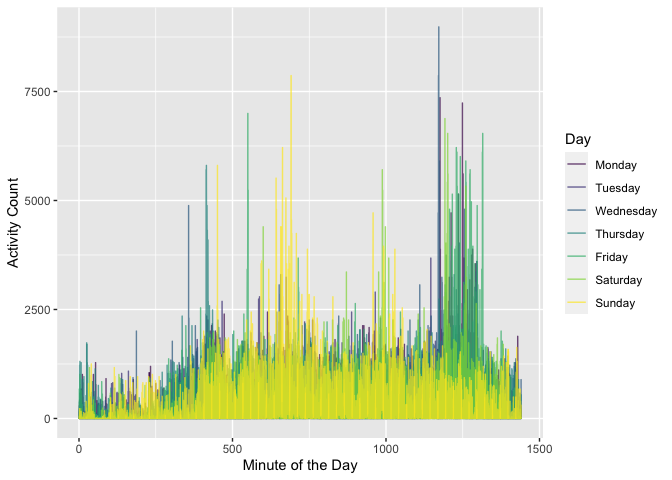
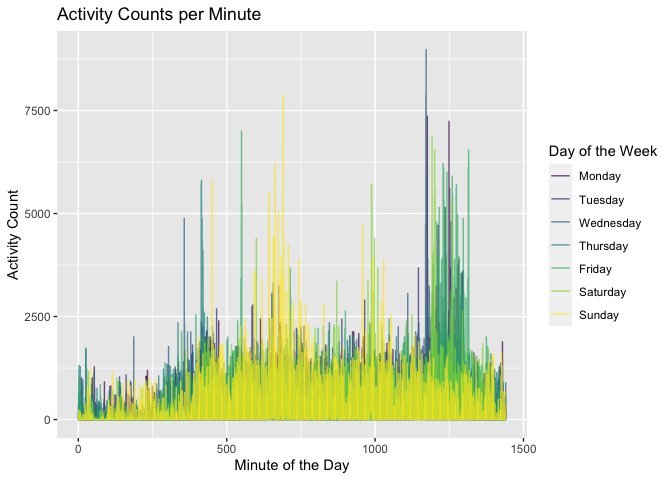
Major commit. Complete HW assignment including all plots and data descriptions

diff --git a/p8105_hw3_rh3064.md b/p8105_hw3_rh3064.md
@@ -83,7 +83,19 @@ accel_long <- accel_data %>%
 
 ## Data Description
 
-There are 50400 rows and 6 columns in the *`accel_long`* tibble. There
+There are 50400 rows and 6 columns in the *`accel_long`* tibble.
+*day_id* corresponds to the actual study data of collection. In the
+original `accel_data` tibble this was of length 35, and corresponded to
+the unique day of collection. Following the pivot, this variable was
+duplicated numerous times, as the length of the pivoted tibble is
+determine by 1440 minutes \* 35 days. The numeric variable *week*
+corresponds to the study week, and *day* corresponds to the day of week.
+The day variable was coerced to a factor and assigned ordered levels to
+ensure proper formatting later. *day_type* is a factor variable
+corresponding to the type of day (weekend vs weekday) and is unordered.
+*minute* is a numeric variable corresponding to the minute of the day
+(from 1 to 1440 for each unique day). Finally, *activity_count* is
+numeric variable of accelerometer data per minute.
 
 ## Total Activity per Day
 
@@ -116,7 +128,7 @@ knitr::kable(caption = "Total Activity Counts by Week and Day")
 Total Activity Counts by Week and Day
 
 There is no obvious trend in activity count data, although there is a
-very count on Saturday in week 4 and 5; this count corresponds to an
+very low count on Saturday in week 4 and 5; this count corresponds to an
 activity count of 1 per minute, while the average activity count per
 minute is 267.04. This might indicate an error with the accelerometer on
 those days, or non-use of the device.
@@ -126,9 +138,13 @@ those days, or non-use of the device.
 ``` r
 ggplot(accel_long, mapping = aes(minute, activity_count)) +
   geom_line(aes(color = day), alpha =0.7) +
-  labs(x = "Minute of the Day", y = "Activity Count") +
+  labs(
+    x = "Minute of the Day", 
+    y = "Activity Count", 
+    title = "Activity Counts per Minute") +
+  
   scale_color_viridis(
-    name = "Day",
+    name = "Day of the Week",
     discrete = TRUE
   )
 ```
@@ -139,14 +155,18 @@ The largest spike in counts is around the 1250 minute mark, which
 corresponds to around around 8:30 to 9:00 PM. The lowest activity is
 seen in the first 300 or so minutes, which corresponds to before 5AM,
 i.e. when they were asleep. General trends by day are difficult to parse
-due to the dense overlap of line plots.
+due to the dense overlap of lines.
 
 ``` r
 ggplot(accel_long, mapping = aes(minute, activity_count)) +
   geom_smooth(aes(color = day)) +
-  labs(x = "Minute of the Day", y = "Activity Count") +
+  labs(
+    x = "Minute of the Day", 
+    y = "Activity Count",
+    title = "Activity Counts per Minute") +
+  
   scale_color_viridis(
-    name = "Day",
+    name = "Day of the Week",
     discrete = TRUE
   )
 ```
@@ -164,13 +184,6 @@ around minute 600, which corresponds to 10AM.
 ## Data Loading
 
 ``` r
-devtools::install_github("p8105/p8105.datasets")
-```
-
-    ## Skipping install of 'p8105.datasets' from a github remote, the SHA1 (412759e3) has not changed since last install.
-    ##   Use `force = TRUE` to force installation
-
-``` r
 library(p8105.datasets)
 data("ny_noaa")
 ```
@@ -182,16 +195,136 @@ tmax tmin and prcp are then divided by 10 to get the correct C and mm
 values (originally the data is provided in tenths of degrees C or tenths
 of mm).
 
-Then, `janitor::clean_names()` is used, and the date is separate into
-three columns with `separate()`.
+Then, `janitor::clean_names()` is used, and *date* is separate into
+three columns with `separate()`. The *year, month* and *date* variables
+are coerced into integer variables. *tmax* and *tmin* are coerced into
+integers as well. Alongside *prcp*, these three variables are provided
+as tenths if degrees C or tenths of mm, so they are divided by 10 to get
+degrees C or mm measurements.
 
 ``` r
-noaa_df <- ny_noaa %>% 
-  mutate(
-    tmax = as.integer(tmax)/10,
-    tmin = as.integer(tmin)/10,
-    prcp = prcp/10
-  ) %>%
+noaa_df <- ny_noaa %>%
   janitor::clean_names() %>%
-  separate(date, into = c("year", "month", "dat"), sep = "-")
+  
+  separate(date, into = c("year", "month", "date"), sep = "-") %>% 
+  
+  mutate(year = as.integer(year),
+         month = as.integer(month),
+         date = as.integer(date),
+         
+         tmax = as.integer(tmax)/10,
+         tmin = as.integer(tmin)/10,
+         prcp = prcp/10)
+         
+head(noaa_df)
 ```
+
+    ## # A tibble: 6 × 9
+    ##   id           year month  date  prcp  snow  snwd  tmax  tmin
+    ##   <chr>       <int> <int> <int> <dbl> <int> <int> <dbl> <dbl>
+    ## 1 US1NYAB0001  2007    11     1    NA    NA    NA    NA    NA
+    ## 2 US1NYAB0001  2007    11     2    NA    NA    NA    NA    NA
+    ## 3 US1NYAB0001  2007    11     3    NA    NA    NA    NA    NA
+    ## 4 US1NYAB0001  2007    11     4    NA    NA    NA    NA    NA
+    ## 5 US1NYAB0001  2007    11     5    NA    NA    NA    NA    NA
+    ## 6 US1NYAB0001  2007    11     6    NA    NA    NA    NA    NA
+
+``` r
+noaa_df %>% 
+  summarise(n_miss = sum(is.na(.)),
+            n_obs = n()*ncol(.),
+            percent_miss = (n_miss/n_obs)*100) %>% 
+  knitr::kable()
+```
+
+|  n_miss |    n_obs | percent_miss |
+|--------:|---------:|-------------:|
+| 3387623 | 23356584 |     14.50393 |
+
+## Data Description
+
+The data contains 2595176 rows and 9 columns. *id* indicates the weather
+station ID, why *year, month* and *day* indicate the date of
+observation. *prcp* is the precipitation in mm, while *snow* is snowfall
+in mm and *snwd* is the snow depth in mm. *tmax* and *tmin* are the
+maximum and minimum temperature on a given date, in degrees C. Roughly
+14.5% of the total cells of the dataframe are missing. The most commonly
+observed snowfall value (ignoring NA’s) is 0 which is likely due to the
+fact that snowfall is expected to occur during the winter months, and
+wouldn’t occur for most of the year.
+
+## Plots
+
+### Plot 1
+
+``` r
+plot1_df<- noaa_df %>%
+  mutate(month_name = month.name[month]) %>%
+  filter(
+    month_name %in% c(month.name[1], month.name[7])) %>% 
+  group_by(id, year, month_name) %>% 
+  summarize(
+    tmax_avg = mean(tmax)
+  )
+```
+
+    ## `summarise()` has grouped output by 'id', 'year'. You can override using the
+    ## `.groups` argument.
+
+``` r
+ggplot(plot1_df, mapping = aes(x = year, y = tmax_avg, color = id)) +
+  geom_line(alpha = 0.5) +
+  facet_grid(. ~ month_name) +
+  labs(
+    x = "Year",
+    y = "Mean Maximum Temperature (C)",
+    title = "Mean max temperature 1981-2010 : January vs. July"
+  )+
+  theme(legend.position = "none") +
+  scale_color_viridis(option = "inferno", discrete = TRUE)
+```
+
+    ## Warning: Removed 6007 row(s) containing missing values (geom_path).
+
+![](p8105_hw3_rh3064_files/figure-gfm/unnamed-chunk-9-1.png)<!-- -->
+
+The January average temperature is roughly between -10C and 10C, while
+the July average temperature is between 20C and 35C. Mean maximum
+temperature seems to go up and down year to year in both January and
+July. There were outlier months around 1994 an 2004 in January, and in
+1987 in July at a single weather station.
+
+### Plot 2
+
+``` r
+plot1 <- noaa_df %>% 
+  ggplot(mapping = aes(x = tmin, y = tmax)) +
+  geom_hex(bins = 100) +
+  labs(
+    x = "Minimum Temperature (C)",
+    y = "Maximum Temperature (C)",
+    title = "Hexagonal Heatmap of Minimum and Maximum Temperature"
+  )
+plot2 <- noaa_df %>% 
+  filter(snow > 0 & snow < 100) %>%
+  ggplot(mapping = aes(x = snow, color = year, group = year)) +
+  geom_density() +
+  scale_color_viridis() +
+  labs(
+    x = "Snowfall (mm)",
+    y = "Density",
+    title = "Distribution of Snowfall by Year"
+  )
+
+plot1/plot2
+```
+
+    ## Warning: Removed 1136276 rows containing non-finite values (stat_binhex).
+
+![](p8105_hw3_rh3064_files/figure-gfm/unnamed-chunk-10-1.png)<!-- -->
+
+The hexagonal heat map shows that minimum and maximum temperature seem
+to have a positive, monotonic relationship.
+
+The snowfall distributions plot shows that year to year differences in
+snowfall distributions is small.
